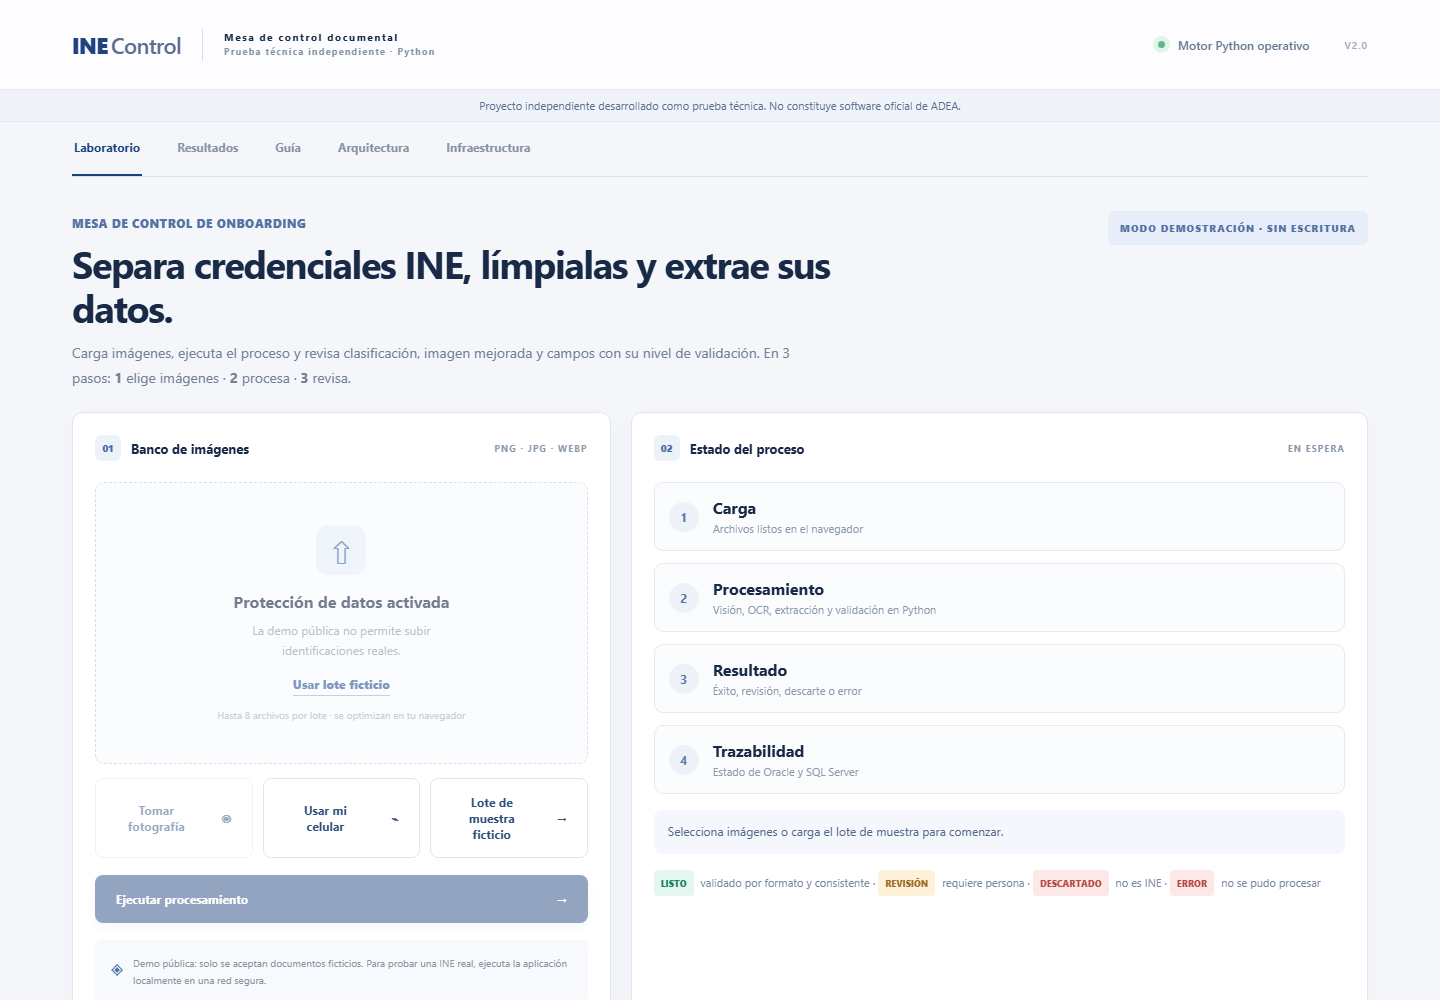
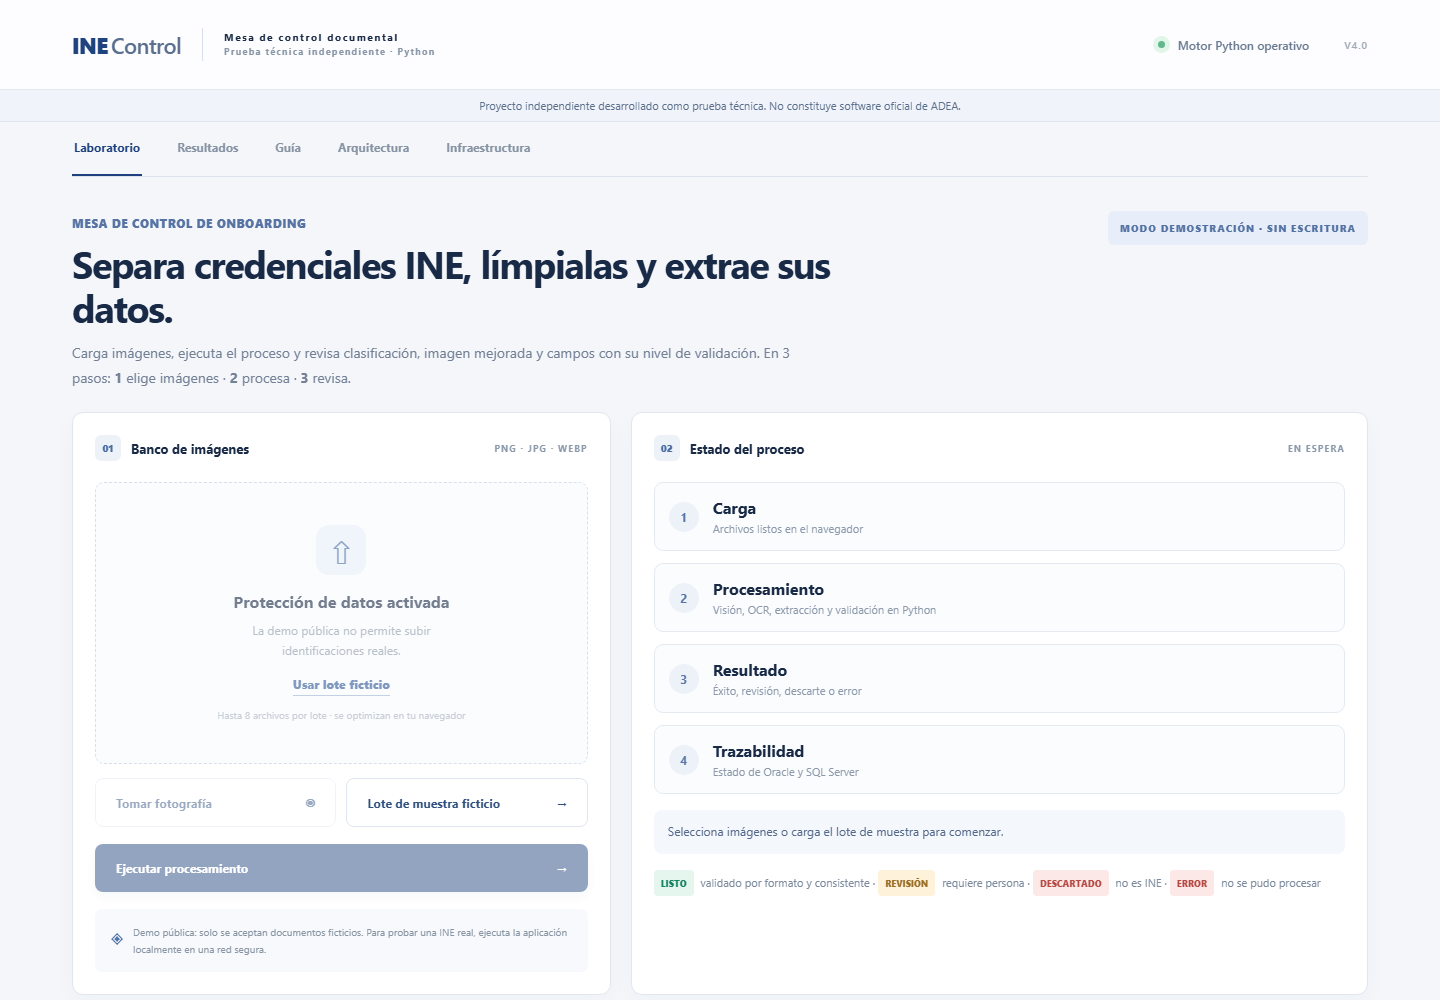
docs: production verification results, refreshed screenshots, known MRZ/Linux limitation

Changed region(s): [[0.0625, 0.775, 0.4062, 0.992], [0.4688, 0.992, 0.9375, 1.0]]

diff --git a/docs/V4_TECHNICAL_HANDOFF.md b/docs/V4_TECHNICAL_HANDOFF.md
@@ -53,12 +53,14 @@ Proyecto `adea-ine-control` (equipo vlux-s-projects), dominio de producción `ht
 - `pytest -q`: 81 exitosas, 6 omitidas (las de BD real) — local, Windows, Tesseract 5.4.
 - `ADEA_REAL_DB=1 pytest tests/test_integration_real.py`: 6/6 contra Oracle y SQL Server locales.
 - CI: `.github/workflows/ci.yml` (Ubuntu, Tesseract + verificación del motor RapidOCR) con reporte JUnit como artefacto.
-- Vercel: `GET /api/health` 200; `POST /api/process` con frente ficticio ⇒ `ine/listo`, contrato con CURP ⇒ `no_ine/descartado` (≈17 s para 2 imágenes); carga real ⇒ 403; `/api/pairing` ⇒ 404; manifiesto 200; service worker registrado; sin errores de consola; sin desplazamiento horizontal a 390 px.
+- Producción tras el merge (commit 9f8939b, deployment adea-ine-control-m9pg70s6r): lote de 4 muestras ⇒ frente `ine/listo` (9.4 s), contrato y foto `descartado`; el reverso queda `descartado` porque su MRZ sintético no se lee en Linux (ver §9).
+- Vercel (primer despliegue): `GET /api/health` 200; `POST /api/process` con frente ficticio ⇒ `ine/listo`, contrato con CURP ⇒ `no_ine/descartado` (≈17 s para 2 imágenes); carga real ⇒ 403; `/api/pairing` ⇒ 404; manifiesto 200; service worker registrado; sin errores de consola; sin desplazamiento horizontal a 390 px.
 
 ## 9. Problemas conocidos
 - Precisión real no medida; las regiones dependen de etiquetas legibles y del modelo de credencial.
-- El MRZ sintético se lee con errores; los dígitos verificadores lo delatan y el reverso queda en revisión.
+- El MRZ sintético depende de la fuente del sistema: en Windows se reconoce (revisión); en Linux/CI/Vercel no se reconoce y el reverso ficticio queda descartado. La prueba correspondiente es XFAIL documentado fuera de Windows.
 - RapidOCR omite espacios: se compensa en la extracción, pero puede afectar documentos con otras tipografías.
+- El proyecto Vercel no está conectado a GitHub por Git Integration (la sesión no tuvo permiso para ese cambio de configuración); los despliegues se hicieron por CLI desde `main`. Para despliegues automáticos: Vercel → adea-ine-control → Settings → Git → conectar `lilpne25-ui/ADEA-Prueba-`.
 - El primer despliegue por CLI de un proyecto nuevo quedó directamente en producción (comportamiento de Vercel para proyectos sin producción previa); se verificó antes de anunciarlo.
 
 ## 10. Decisiones técnicas

diff --git a/README.md b/README.md
@@ -6,7 +6,7 @@ Demo pública (solo documentos ficticios): **https://adea-ine-control.vercel.app
 
 | Escritorio | Móvil |
 |---|---|
-| ![Laboratorio en escritorio](docs/screenshots/escritorio-1440.png) | ![Laboratorio en móvil](docs/screenshots/movil-390.png) |
+| ![Laboratorio en escritorio](docs/screenshots/escritorio-1440.png) | ![Laboratorio en móvil](docs/screenshots/movil-500.png) |
 
 ## 1. Presentación
 INE Control recibe un lote heterogéneo de imágenes, separa las credenciales INE/IFE, mejora la imagen, extrae sus campos, los valida y registra el expediente en **Oracle** (`SP_REGISTRAR_EXPEDIENTE`) con auditoría en **SQL Server**. Todo el procesamiento está en Python; la interfaz web solo presenta resultados.
@@ -79,6 +79,7 @@ Bases locales opcionales: [DEPLOYMENT_GUIDE.md §1b](DEPLOYMENT_GUIDE.md).
 ## 16. Limitaciones reales
 - Precisión con INE reales **no medida** (solo muestras sintéticas); en una prueba local con una credencial real se leyeron CURP y clave, pero no nombre, sección ni MRZ.
 - RapidOCR en la nube tarda ~5–10 s por imagen.
+- En Linux (CI y Vercel) el MRZ de la muestra sintética no se reconoce porque se dibuja con la fuente monoespaciada del sistema (Tesseract/RapidOCR confunden `<`); por eso en la demo pública el reverso ficticio queda descartado. En Windows sí se reconoce.
 - Cámara en vivo no probada en un teléfono físico.
 - Firma real de `SP_REGISTRAR_EXPEDIENTE` desconocida (contrato de demostración configurable).
 
